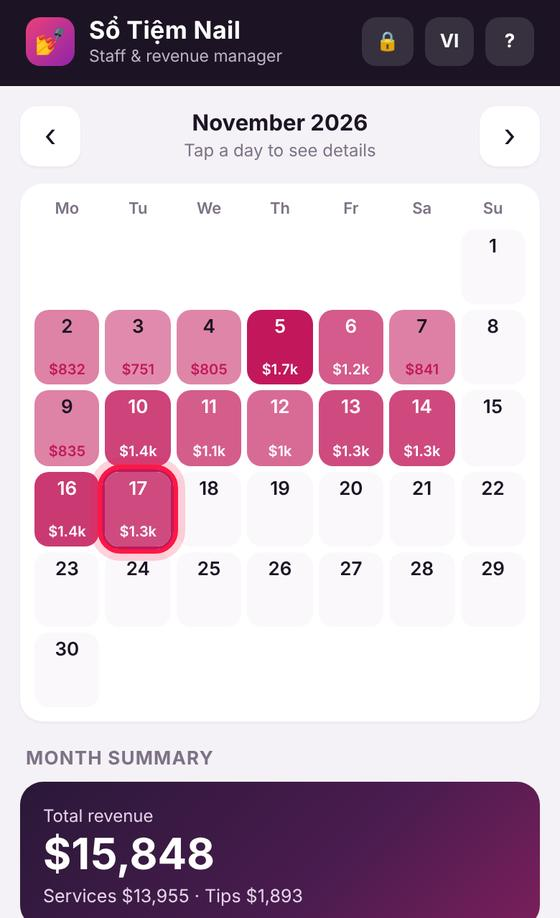
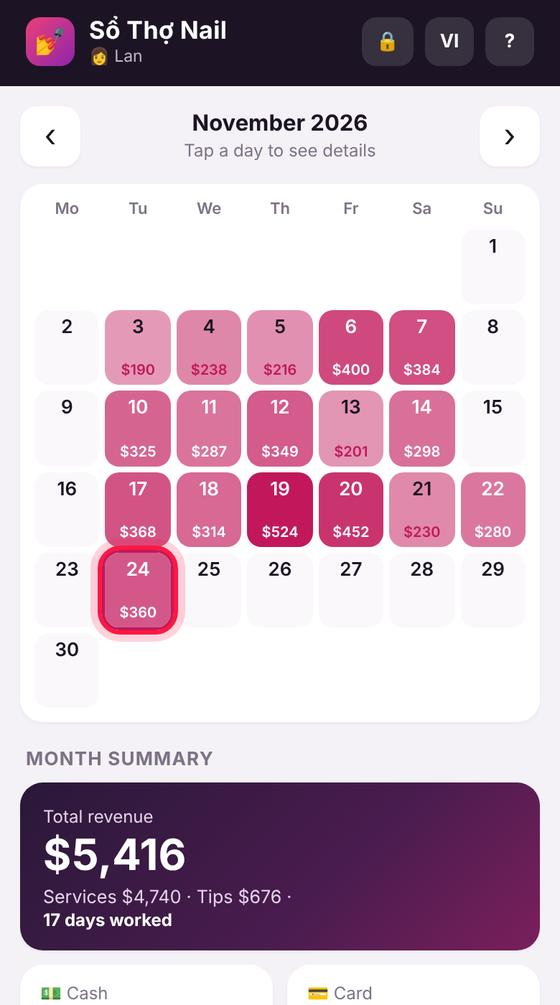
Sổ Thợ Nail: demo 3 thợ × 1 tháng, hướng dẫn mới có hình
Claude-Session: https://claude.ai/code/session_01391B9zE9XbNDMXGL6CtBVW

diff --git a/tho/index.html b/tho/index.html
@@ -304,7 +304,7 @@ main{padding-bottom:104px!important}
 .ckv small{display:block;font-size:11px;color:var(--mut)}.ckv b{font-size:15.5px}
 .cka{position:absolute;right:14px;top:18px;font-size:26px;color:var(--mut)}
 
-.solo .tog.t3{grid-template-columns:1fr 1fr}.solo .tog.t3 button.gift{display:none}.solo .lback{display:none}
+.solo .tog.t3{grid-template-columns:1fr 1fr}.solo .tog.t3 button.gift{display:none}.solo .lback{display:none}.dsw{display:grid;grid-template-columns:1fr 1fr 1fr;gap:8px}.dsw button{border:1.5px solid var(--line);background:var(--card);border-radius:14px;padding:10px 4px;font:inherit;font-weight:700;font-size:15px;display:flex;flex-direction:column;align-items:center;gap:4px;color:var(--ink)}.dsw button.on{border-color:var(--acc);box-shadow:0 0 0 3px #c2185b22}.dsw .av{width:36px;height:36px;font-size:16px;border-radius:50%;display:grid;place-items:center;color:#fff}.dsw small{font-weight:500;color:var(--mut);font-size:12px}
 </style>
 </head>
 <body>
@@ -1202,7 +1202,7 @@ const dayPill=t=>t.cash&&t.card?T('dayTotalL'):t.cash?T('cashW'):t.card?T('cardW
 // weekly attendance table (whole salon, week view)
 function attTable(rg,l){const ds=[];for(let i=0;i<7;i++)ds.push(addD(rg.a,i));
   const lb=LANG==='en'?['Mo','Tu','We','Th','Fr','Sa','Su']:['T2','T3','T4','T5','T6','T7','CN'];
-  const ws=S.workers.filter(w=>!w.del||l.some(t=>t.wid===w.id));if(!ws.length)return'';
+  const ws=S.workers.filter(w=>(!w.del||l.some(t=>t.wid===w.id))&&(st.role!=='staff'||w.id===st.me));if(!ws.length)return'';
   return`<div class="sec">${T('attT')}</div><div class="card att"><div class="atr ah"><span></span>${lb.map(x=>`<span>${x}</span>`).join('')}<span>∑</span></div>`+
   ws.map(w=>{const cells=ds.map(d=>{const x=sum(l.filter(t=>t.wid===w.id&&t.date===d));return x.n||x.total?`<span class="on">${short(x.pay)}</span>`:d>today()?'<span style="color:#c9bfd0">·</span>':'<span class="off">—</span>'}).join('');
     return`<div class="atr"><span class="nm"><i style="background:${w.color}"></i>${esc(w.name)}</span>${cells}<b>${daysOf(l,w.id)}</b></div>`}).join('')+
@@ -1461,7 +1461,7 @@ window.SOLO=true;document.body.classList.add('solo');
 Object.assign(D,{
   sub:['Sổ tiền của thợ nail','Nail tech earnings book'],tabSet:['Cài đặt','Settings'],
   earn:['Bạn nhận','You earn'],ownerPinE:['Nhập mã số của bạn','Enter your passcode'],
-  ownerR:[()=>(S.workers.find(w=>!w.del)||{}).name||'Sổ Thợ Nail',()=>(S.workers.find(w=>!w.del)||{}).name||'Sổ Thợ Nail'],
+  ownerR:[()=>(meW()||{}).name||'Sổ Thợ Nail',()=>(meW()||{}).name||'Sổ Thợ Nail'],
   newPin:['Tạo mã số 4 số để giữ sổ riêng của bạn','Create a 4-digit passcode for your private book'],
   setupT:['Chào bạn! Bắt đầu nhé','Welcome! Let’s get started'],
   setupD:['App này là sổ riêng của bạn: tự ghi khách, tiền bo, ngày làm và check. Số liệu chỉ nằm trên điện thoại này.','This is your private book: record customers, tips, days worked and checks. Your data stays on this phone only.'],
@@ -1475,18 +1475,20 @@ Object.assign(D,{
   impBtn:['📥 Nhập từ Excel (.csv)','📥 Import from Excel (.csv)'],
   localOnly:['Số liệu chỉ nằm trên điện thoại này. Không ai khác — kể cả chủ tiệm — xem được.','Your data stays on this phone. Nobody else — not even the salon owner — can see it.'],
 });
-const meId=()=>(S.workers.find(w=>!w.del)||{}).id;
-function soloFix(){const w=S.workers.find(x=>!x.del);if(w){w.anyDay=true;w.ckEdit=true}S.staffAdd=true;S.solo=true}
+function meW(){return S.workers.find(x=>!x.del&&x.id===S.cur)||S.workers.find(x=>!x.del)}
+const meId=()=>(meW()||{}).id;
+function soloFix(){S.workers.forEach(w=>{w.anyDay=true;w.ckEdit=true});S.staffAdd=true;S.solo=true}
 const _laSolo=loginAs;loginAs=function(){soloFix();const id=meId();if(!id){hideLock();st.role='staff';st.me='';R();openSetup();return}_laSolo(id)};
 function showLock(mode){closeS();if(!getPin())mode='new';else if(!mode||mode==='enter'||mode==='switch')mode='enter';
   L={mode,buf:'',first:'',msg:'',who:mode==='enter'?'owner':''};drawLock();$('#lock').classList.add('on')}
 TABS.push(['set','tabSet','<circle cx="12" cy="12" r="3"/><path d="M19.4 15a1.7 1.7 0 0 0 .3 1.8l.1.1a2 2 0 1 1-2.8 2.8l-.1-.1a1.7 1.7 0 0 0-1.8-.3 1.7 1.7 0 0 0-1 1.5V21a2 2 0 1 1-4 0v-.1a1.7 1.7 0 0 0-1.1-1.5 1.7 1.7 0 0 0-1.8.3l-.1.1a2 2 0 1 1-2.8-2.8l.1-.1a1.7 1.7 0 0 0 .3-1.8 1.7 1.7 0 0 0-1.5-1H3a2 2 0 1 1 0-4h.1a1.7 1.7 0 0 0 1.5-1.1 1.7 1.7 0 0 0-.3-1.8l-.1-.1a2 2 0 1 1 2.8-2.8l.1.1a1.7 1.7 0 0 0 1.8.3H9a1.7 1.7 0 0 0 1-1.5V3a2 2 0 1 1 4 0v.1a1.7 1.7 0 0 0 1 1.5 1.7 1.7 0 0 0 1.8-.3l.1-.1a2 2 0 1 1 2.8 2.8l-.1.1a1.7 1.7 0 0 0-.3 1.8V9a1.7 1.7 0 0 0 1.5 1H21a2 2 0 1 1 0 4h-.1a1.7 1.7 0 0 0-1.5 1z"/>']);
-function vSet(){const w=S.workers.find(x=>!x.del);
+function vSet(){const w=meW();
   let h=`<div class="sec" style="margin-top:4px">${T('meT')}</div>`;
   if(w)h+=`<div class="card" style="padding:14px 16px;display:flex;align-items:center;gap:14px"><div class="av" style="background:${w.color};width:52px;height:52px;font-size:22px">${esc((w.name.trim()[0]||'?').toUpperCase())}</div><div style="flex:1"><b style="font-size:19px">${esc(w.name)}</b><div style="color:var(--mut);font-size:14px">${T('commission',w.pct)}</div></div><button class="btn sec2" style="width:auto;margin:0;padding:10px 18px" onclick="openSetup(true)">${T('editMe')}</button></div>`;
-  if(S.sample)h+=`<div class="card" style="padding:14px"><b>${T('sampleOn')}</b><p class="note" style="margin:6px 0 10px">${T('sampleTxt')}</p><button class="btn del" style="margin:0" onclick="ask(T('clearSampleQ'),T('del'),()=>{S.tickets=[];S.checks=[];S.sample=false;save();R();toast(T('cleared'))})">${T('clearSample')}</button></div>`;
+  if(S.sample)h+=demoCard();
   h+=`<div class="sec">${T('data')}</div>
   <button class="btn sec2" onclick="openHelp()">${T('guide')}</button>
+  ${S.sample?'':`<button class="btn sec2" onclick="askDemo()">${T('demoBtn')}</button>`}
   <button class="btn sec2" onclick="openBk()">${T('backup')}</button>
   <button class="btn sec2" onclick="openImp()">${T('impBtn')}</button>
   <button class="btn sec2" onclick="showLock('old')">${T('changePin')}</button>
@@ -1497,7 +1499,7 @@ function vSet(){const w=S.workers.find(x=>!x.del);
   <p class="note" style="text-align:center;margin-top:24px">💅 Sổ Thợ Nail<br>${T('by')} <b>Ryan Nguyen</b></p>`;
   return h}
 let SF=null;
-function openSetup(edit){const w=S.workers.find(x=>!x.del);SF={name:w?w.name:'',pct:w?w.pct:60,edit:!!(edit&&w)};
+function openSetup(edit){const w=meW();SF={name:w?w.name:'',pct:w?w.pct:60,edit:!!(edit&&w)};
   openS(`<h3>${SF.edit?T('meT'):T('setupT')}${SF.edit?`<button onclick="closeS()">${T('close')}</button>`:''}</h3>
   ${SF.edit?'':`<p class="note" style="margin:0 2px 8px;font-size:14.5px">${T('setupD')}</p>`}
   <div class="lab">${T('myName')}</div><input class="field" id="sN" value="${esc(SF.name)}" placeholder="${T('namePh')}">
@@ -1505,10 +1507,10 @@ function openSetup(edit){const w=S.workers.find(x=>!x.del);SF={name:w?w.name:'',
   <div class="quick">${[50,55,60,65,70].map(v=>`<button style="color:var(--acc)" onclick="$('#sP').value=${v}">${v}%</button>`).join('')}</div>
   <p class="note">${T('myPctD')}</p><div id="sErr" class="err-t"></div>
   <button class="btn pri" style="margin-top:10px" onclick="saveSetup(false)">${SF.edit?T('save'):T('start')}</button>
-  ${SF.edit?'':`<button class="btn sec2" onclick="saveSetup(true)">${T('trySample')}</button>`}`)}
+  ${SF.edit?'':`<button class="btn sec2" onclick="soloDemo()">${T('demoBtn')}</button><p class="note" style="text-align:center">${T('demoD')}</p>`}`)}
 function saveSetup(sample){const name=$('#sN').value.trim(),pct=Math.min(100,Math.max(0,parseFloat($('#sP').value)||0));
   if(!name){$('#sErr').textContent=T('myName');$('#sN').focus();return}
-  let w=S.workers.find(x=>!x.del);
+  let w=meW();
   if(w){w.name=name;w.pct=pct}else{w={id:uid(),name,pct,color:'#c2185b',del:false};S.workers=[w]}
   soloFix();if(sample)soloSample(w.id);save();closeS();loginAs(null)}
 function soloSample(wid){const prices=[25,30,35,40,45,50,55,60,65,70,85],t=[];
@@ -1520,25 +1522,75 @@ function soloSample(wid){const prices=[25,30,35,40,45,50,55,60,65,70,85],t=[];
   S.checks=[0,1,2,3].map(i=>({id:uid(),no:i+1,a:addD(a1,i*14),b:addD(a1,i*14+13),note:'',wid}));S.sample=true}
 const _RSolo=R;R=function(){_RSolo();if(!$('#lock').classList.contains('on')&&!meId()&&!$('#sheet').classList.contains('on'))setTimeout(()=>{if(!meId())openSetup()},60)};
 HELP.vi=[
-['🔒 Mã số','Lần đầu mở app, tạo mã 4 số rồi nhập lại để xác nhận. Sau đó nhập tên và % hoa hồng của bạn. App tự khoá khi rời app hơn 1 phút. Đổi mã trong tab <b>Cài đặt</b>.'],
-['💅 Ghi từng khách','Tab <b>Hôm nay</b> → <b>＋ Thêm khách</b>. Nhập tiền làm, tiền bo (nút nhanh $5, $10, 15%, 20%), chọn <b>Tiền mặt / Thẻ</b> → <b>Lưu khách</b>. Bấm vào dòng khách để sửa hoặc xoá.','addcust'],
-['📋 Tổng kết ngày','Không ghi từng khách? Bấm <b>📋 Tổng kết ngày</b>: chọn ngày, nhập tổng tiền làm, tổng tiền bo, phần tiền mặt / thẻ → <b>Lưu tổng ngày</b>. Mỗi ngày chỉ có một tổng; bấm lại để sửa.'],
-['📅 Lịch','Xem cả tháng; ô càng đậm là ngày càng nhiều tiền. Bấm vào một ngày để xem chi tiết.','cal'],
-['📊 Báo cáo','Chọn <b>Ngày / Tuần / Tháng / Năm</b>: thấy <b>Bạn nhận</b> (hoa hồng + bo), tiền làm, tiền bo, tiền mặt, thẻ, số khách, ngày làm (xanh) và ngày nghỉ (đỏ). Bấm <b>Xuất phiếu lương PDF</b> hoặc <b>Tải bảng số (Excel)</b> để lưu.','slip'],
-['🧾 Check','Báo cáo → <b>Check</b> → <b>＋ Tạo check mới</b>, chọn ngày đầu và ngày cuối giống kỳ lương của tiệm. Bấm vào check để xem bạn đáng nhận bao nhiêu và so với check tiệm trả.'],
-['💰 Cách tính','<b>Bạn nhận</b> = tiền làm × % hoa hồng + toàn bộ tiền bo. Đổi % trong <b>Cài đặt → Sửa</b>.'],
-['💾 Sao lưu','Tab <b>Cài đặt</b> → <b>Sao lưu / Khôi phục</b> → <b>Lưu file sao lưu</b>, cất vào Tệp hoặc iCloud mỗi tuần. Đổi điện thoại thì <b>Mở file sao lưu</b>. Có file bảng số (.csv)? Dùng <b>Nhập từ Excel</b>.','backup'],
-['🔐 Riêng tư','Số liệu chỉ nằm trên điện thoại của bạn, không gửi lên mạng, không ai khác xem được — kể cả chủ tiệm. Bấm <b>EN / VI</b> để đổi tiếng Anh / tiếng Việt.']];
+['👋 Bắt đầu','Lần đầu mở app: tạo <b>mã 4 số</b> rồi nhập lại để xác nhận. Sau đó nhập <b>tên</b> và <b>% hoa hồng</b> của bạn (nút nhanh 50–70%) → <b>Bắt đầu</b>. Muốn xem thử trước, bấm <b>🎬 Xem demo</b>.','setup'],
+['🎬 Xem demo','Demo có sẵn <b>3 thợ mẫu</b> (Lan, Vy, Tâm), mỗi người <b>1 tháng làm</b> và 2 check. Vào tab <b>Cài đặt</b>, bấm tên từng thợ để xem sổ của người đó. Xem xong bấm <b>Xoá demo</b>: số mẫu mất hết, số thật của bạn (nếu có) được trả lại. Mở demo lại bất cứ lúc nào bằng nút <b>🎬 Xem demo</b> trong Cài đặt.','demo'],
+['🏠 Màn hình Hôm nay','Ô màu ở trên là <b>Bạn nhận</b> hôm nay (hoa hồng + tiền bo). Bên dưới: số khách, tổng thu, tiền làm, tiền bo, tiền mặt, thẻ, và danh sách từng khách. Bấm <b>‹ ›</b> để qua ngày trước, ngày sau.','today'],
+['💅 Ghi từng khách','Bấm <b>＋ Thêm khách</b>. Nhập <b>tiền làm</b>, <b>tiền bo</b> (nút nhanh $5, $10, 15%, 20%), chọn <b>Tiền mặt</b> hoặc <b>Thẻ</b> → <b>Lưu khách</b>.','addcust'],
+['📋 Tổng kết ngày','Không ghi từng khách? Bấm <b>📋 Tổng kết ngày</b> (nút bên trái): chọn ngày, nhập <b>tổng tiền làm</b>, <b>tổng tiền bo</b> và phần <b>tiền mặt / thẻ</b> → <b>Lưu tổng ngày</b>. Mỗi ngày một tổng; bấm lại để sửa. Ngày có tổng vẫn tính là ngày làm.','daytotal'],
+['✏ Sửa hoặc xoá','Bấm vào dòng khách (hoặc dòng tổng ngày) để mở lại → sửa số rồi <b>Lưu</b>, hoặc bấm <b>Xoá</b>. Bạn sửa được mọi ngày, trước hay sau.','edit'],
+['📅 Lịch','Xem cả tháng; ô càng đậm là ngày càng nhiều tiền, dưới mỗi ô là số tiền ngày đó. Bấm vào một ngày để mở ngày đó.','cal'],
+['📊 Báo cáo & ngày làm','Tab <b>Báo cáo</b>, chọn <b>Ngày / Tuần / Tháng / Năm</b>. Thấy <b>Bạn nhận</b>, tiền làm, tiền bo, tiền mặt, thẻ, số khách. Phần <b>Ngày làm trong tuần</b>: ngày làm <b style="color:#2e7d32">xanh</b>, ngày nghỉ <b style="color:#c62828">đỏ</b> (ngày không có số là ngày nghỉ).','rep'],
+['🧾 Check (kỳ lương)','Báo cáo → <b>Check</b> → <b>＋ Tạo check mới</b>. Chọn <b>ngày đầu</b> và <b>ngày cuối</b> giống kỳ lương của tiệm → <b>Lưu check</b>. Bấm vào Check #1, #2… để xem bạn đáng nhận bao nhiêu trong kỳ đó và <b>so với check tiệm trả</b>.','check'],
+['📄 Phiếu lương PDF & Excel','Trong Báo cáo hay trong một check: <b>Xuất phiếu lương PDF</b> để lưu hoặc gửi; <b>Tải bảng số (Excel)</b> để có file .csv mở bằng Excel, Numbers, Google Sheets.','slip'],
+['💾 Sao lưu & nhập lại','Tab <b>Cài đặt</b> → <b>Sao lưu / Khôi phục</b> → <b>Lưu file sao lưu</b>, cất vào Tệp hoặc iCloud mỗi tuần. Đổi điện thoại: <b>Mở file sao lưu</b>. Có file bảng số (.csv)? Bấm <b>Nhập từ Excel</b>; dòng đã có sẽ tự bỏ qua.','backup'],
+['💰 Cách tính','<b>Bạn nhận</b> = tiền làm × % hoa hồng + toàn bộ tiền bo.<br>Ví dụ: làm $1.000, hoa hồng 60%, bo $150 → bạn nhận $600 + $150 = <b>$750</b>. Đổi % trong <b>Cài đặt → Sửa</b>.'],
+['🔐 Mã số & riêng tư','App tự khoá khi rời app hơn 1 phút; bấm 🔒 để khoá ngay. Đổi mã trong Cài đặt. Số liệu chỉ nằm trên điện thoại của bạn, không gửi lên mạng, không ai khác xem được, kể cả chủ tiệm. Bấm <b>EN / VI</b> để đổi tiếng Anh / tiếng Việt.'],
+['⚠ Xoá dữ liệu','Cài đặt → <b>Xoá dữ liệu</b> xoá hết số trên máy này. Nhớ <b>sao lưu</b> trước.']];
 HELP.en=[
-['🔒 Passcode','The first time, create a 4-digit passcode and enter it again. Then enter your name and commission %. The app locks itself after 1 minute away. Change the code in <b>Settings</b>.'],
-['💅 Log each customer','<b>Today</b> tab → <b>＋ Add customer</b>. Enter the service amount and tip (quick $5, $10, 15%, 20%), choose <b>Cash / Card</b> → <b>Save customer</b>. Tap a line to edit or delete.','addcust'],
-['📋 Day total','Not logging each customer? Tap <b>📋 Day total</b>: pick the day, enter total services, total tips and the cash / card split → <b>Save day total</b>. One total per day; tap again to edit.'],
-['📅 Calendar','See the whole month; darker days earned more. Tap a day for details.','cal'],
-['📊 Reports','Choose <b>Day / Week / Month / Year</b>: see <b>You earn</b> (commission + tips), services, tips, cash, card, customers, days worked (green) and days off (red). Tap <b>Export pay slip PDF</b> or <b>Download sheet (Excel)</b> to save.','slip'],
-['🧾 Checks','Reports → <b>Check</b> → <b>＋ New check</b>, pick the same start and end dates as the salon’s pay period. Tap a check to see what you should be paid and compare it with your paycheck.'],
-['💰 How it’s counted','<b>You earn</b> = services × commission % + all tips. Change your % in <b>Settings → Edit</b>.'],
-['💾 Backup','<b>Settings</b> → <b>Backup / Restore</b> → <b>Save backup file</b>, keep it in Files or iCloud every week. New phone? <b>Open backup file</b>. Have a sheet (.csv)? Use <b>Import from Excel</b>.','backup'],
-['🔐 Private','Your data stays on your phone, is never sent online, and nobody else — not even the salon owner — can see it. Tap <b>EN / VI</b> to switch language.']];
+['👋 Getting started','First time: create a <b>4-digit passcode</b> and enter it again. Then enter your <b>name</b> and <b>commission %</b> (quick 50–70% buttons) → <b>Start</b>. Want a look first? Tap <b>🎬 Try the demo</b>.','setup'],
+['🎬 Demo','The demo has <b>3 sample techs</b> (Lan, Vy, Tâm), each with <b>one month of work</b> and 2 checks. In <b>Settings</b>, tap a name to see that tech’s book. When done, tap <b>Clear demo</b>: the sample numbers are gone and your real numbers (if any) come back. Reopen it any time with <b>🎬 Try the demo</b> in Settings.','demo'],
+['🏠 Today screen','The colored card shows <b>You earn</b> today (commission + tips). Below: customers, revenue, services, tips, cash, card and each customer. Tap <b>‹ ›</b> for the previous or next day.','today'],
+['💅 Log each customer','Tap <b>＋ Add customer</b>. Enter the <b>service amount</b> and <b>tip</b> (quick $5, $10, 15%, 20%), choose <b>Cash</b> or <b>Card</b> → <b>Save customer</b>.','addcust'],
+['📋 Day total','Not logging each customer? Tap <b>📋 Day total</b> (left button): pick the day, enter <b>total services</b>, <b>total tips</b> and the <b>cash / card</b> split → <b>Save day total</b>. One total per day; tap again to edit. Days with a total count as days worked.','daytotal'],
+['✏ Edit or delete','Tap a customer (or a day total) to open it → change it and <b>Save</b>, or tap <b>Delete</b>. You can edit any day, past or future.','edit'],
+['📅 Calendar','See the whole month; darker days earned more, with the amount under each day. Tap a day to open it.','cal'],
+['📊 Reports & days worked','<b>Reports</b> tab, choose <b>Day / Week / Month / Year</b>. See <b>You earn</b>, services, tips, cash, card and customers. <b>Days worked this week</b>: worked days are <b style="color:#2e7d32">green</b>, days off <b style="color:#c62828">red</b> (a day with no numbers is a day off).','rep'],
+['🧾 Pay checks','Reports → <b>Check</b> → <b>＋ New check</b>. Pick the same <b>start</b> and <b>end date</b> as the salon’s pay period → <b>Save check</b>. Tap Check #1, #2… to see what you should be paid for that period and <b>compare it with your paycheck</b>.','check'],
+['📄 Pay slip PDF & Excel','In Reports or inside a check: <b>Export pay slip PDF</b> to save or send; <b>Download sheet (Excel)</b> for a .csv file that opens in Excel, Numbers or Google Sheets.','slip'],
+['💾 Backup & import','<b>Settings</b> → <b>Backup / Restore</b> → <b>Save backup file</b>, keep it in Files or iCloud every week. New phone: <b>Open backup file</b>. Have a sheet (.csv)? Tap <b>Import from Excel</b>; rows already there are skipped.','backup'],
+['💰 How it’s counted','<b>You earn</b> = services × commission % + all tips.<br>Example: $1,000 services, 60% commission, $150 tips → $600 + $150 = <b>$750</b>. Change your % in <b>Settings → Edit</b>.'],
+['🔐 Passcode & privacy','The app locks after 1 minute away; tap 🔒 to lock now. Change the code in Settings. Your data stays on your phone, is never sent online, and nobody else, not even the salon owner, can see it. Tap <b>EN / VI</b> to switch language.'],
+['⚠ Delete data','Settings → <b>Delete data</b> erases everything on this phone. <b>Back up</b> first.']];
+// ---------- DEMO: 3 thợ × 1 tháng (số thật được cất riêng, xoá demo là trả lại) ----------
+Object.assign(D,{
+  demoBtn:['🎬 Xem demo: 3 thợ, 1 tháng','🎬 Try the demo: 3 techs, 1 month'],
+  demoD:['Có sẵn 3 thợ mẫu với 1 tháng số. Xem xong bấm Xoá demo.','3 sample techs with one month of numbers. Tap Clear demo when done.'],
+  demoT:['🎬 Đang xem demo','🎬 Demo mode'],
+  demoP:['Bấm tên để xem sổ của từng thợ. Mỗi người có 1 tháng làm và 2 check.','Tap a name to see each tech’s book. Each has one month of work and 2 checks.'],
+  demoClr:['Xoá demo','Clear demo'],
+  demoClrQ:['Xoá hết số demo? Số thật của bạn (nếu có) sẽ được trả lại.','Delete all demo numbers? Your real numbers (if any) come back.'],
+  demoAskQ:['Mở demo 3 thợ? Số của bạn được cất riêng và trả lại khi bấm Xoá demo.','Open the 3-tech demo? Your numbers are kept aside and come back when you tap Clear demo.'],
+  demoOpen:['Mở demo','Open demo'],demoOn:['Đã mở demo','Demo opened'],
+});
+function demoCard(){const ws=S.workers.filter(w=>!w.del),me=meId();
+  return `<div class="card demo" style="padding:14px"><b style="font-size:17px">${T('demoT')}</b><p class="note" style="margin:6px 0 10px">${T('demoP')}</p>
+  <div class="dsw">${ws.map(w=>`<button class="${w.id===me?'on':''}" onclick="demoAs('${w.id}')"><span class="av" style="background:${w.color}">${esc(w.name[0])}</span>${esc(w.name)}<small>${w.pct}%</small></button>`).join('')}</div>
+  <button class="btn del" style="margin:12px 0 0" onclick="ask(T('demoClrQ'),T('demoClr'),demoClear)">${T('demoClr')}</button></div>`}
+function demoAs(id){S.cur=id;save();loginAs(null);st.tab='day';R();toast('👩 '+W(id).name)}
+function askDemo(){if(!S.tickets.length&&!S.checks.length)return soloDemo();ask(T('demoAskQ'),T('demoOpen'),soloDemo)}
+function demoClear(){let r=null;try{r=S.realBak?JSON.parse(S.realBak):null}catch(e){}
+  S.workers=r?r.workers:[];S.tickets=r?r.tickets:[];S.checks=r?r.checks:[];S.cur=r?r.cur:'';delete S.realBak;S.sample=false;
+  save();closeS();st.tab='day';toast(T('cleared'));loginAs(null);R()}
+function soloDemo(){
+  if(!S.sample&&(S.tickets.length||S.checks.length||S.workers.length))S.realBak=JSON.stringify({workers:S.workers,tickets:S.tickets,checks:S.checks,cur:S.cur||''});
+  let seed=20261124;const rnd=()=>(seed=(seed*1103515245+12345)%2147483648)/2147483648;
+  const P=[25,30,35,40,45,50,55,60,65,70,85],t=[];
+  const ws=[{id:uid(),name:'Lan',pct:60,color:'#c2185b',del:false,mode:'each',days:[2,3,4,5,6],extra:.4},
+            {id:uid(),name:'Vy',pct:55,color:'#7b1fa2',del:false,mode:'total',days:[1,2,3,4,5],extra:.2},
+            {id:uid(),name:'Tâm',pct:65,color:'#00897b',del:false,mode:'mix',days:[4,5,6,0],extra:.1}];
+  const a0=addD(today(),-29);
+  ws.forEach(w=>{for(let k=0;k<30;k++){const ds=addD(a0,k),dw=pd(ds).getDay();
+      const on=w.days.includes(dw)?rnd()>.08:rnd()<w.extra*.5;if(!on)continue;
+      const total=w.mode==='total'?rnd()<.9:w.mode==='mix'?rnd()<.45:rnd()<.08;
+      if(total){const amt=260+Math.round(rnd()*28)*10,tip=Math.round(amt*(.13+rnd()*.06)),cash=Math.round((amt+tip)*(.25+rnd()*.3)/5)*5;
+        t.push({id:uid(),kind:'day',date:ds,wid:w.id,n:0,amt,tip,cash,card:amt+tip-cash,pay:'mix',time:'23:59'});continue}
+      const n=4+Math.floor(rnd()*(dw===6?6:4));
+      for(let j=0;j<n;j++){const amt=P[Math.floor(rnd()*P.length)];
+        t.push({id:uid(),date:ds,wid:w.id,amt,tip:rnd()<.85?Math.round(amt*(.12+rnd()*.1)):0,pay:rnd()<.6?'card':'cash',time:pad(9+Math.floor(j*1.2))+':'+pad(Math.floor(rnd()*4)*15)})}}
+    delete w.mode;delete w.days;delete w.extra});
+  S.workers=ws;S.tickets=t;S.cur=ws[0].id;
+  S.checks=[];ws.forEach(w=>{S.checks.push({id:uid(),no:1,a:a0,b:addD(a0,13),note:'',wid:w.id},{id:uid(),no:2,a:addD(a0,14),b:addD(a0,27),note:'',wid:w.id})});
+  S.sample=true;soloFix();save();closeS();st.tab='day';loginAs(null);R();toast(T('demoOn'))}
 
 R();showLock();
 </script>

diff --git a/tho/sw.js b/tho/sw.js
@@ -1,8 +1,8 @@
 // Sổ Thợ Nail – offline cache. App by Ryan Nguyen.
 // Only the app's own files are cached. Your salon data is never sent anywhere.
-const CACHE = 'so-tho-nail-v2';
+const CACHE = 'so-tho-nail-v6';
 const FILES = ['./', './index.html', './manifest.webmanifest', './icon-192.png', './icon-512.png', './apple-touch-icon.png',
-  './help/vi-addcust.jpg', './help/en-addcust.jpg', './help/vi-cal.jpg', './help/en-cal.jpg', './help/vi-slip.jpg', './help/en-slip.jpg', './help/vi-backup.jpg', './help/en-backup.jpg'];
+  './help/vi-setup.jpg', './help/en-setup.jpg', './help/vi-demo.jpg', './help/en-demo.jpg', './help/vi-today.jpg', './help/en-today.jpg', './help/vi-addcust.jpg', './help/en-addcust.jpg', './help/vi-daytotal.jpg', './help/en-daytotal.jpg', './help/vi-edit.jpg', './help/en-edit.jpg', './help/vi-cal.jpg', './help/en-cal.jpg', './help/vi-rep.jpg', './help/en-rep.jpg', './help/vi-check.jpg', './help/en-check.jpg', './help/vi-slip.jpg', './help/en-slip.jpg', './help/vi-backup.jpg', './help/en-backup.jpg'];
 
 self.addEventListener('install', e => {
   e.waitUntil(caches.open(CACHE).then(c => c.addAll(FILES)));
